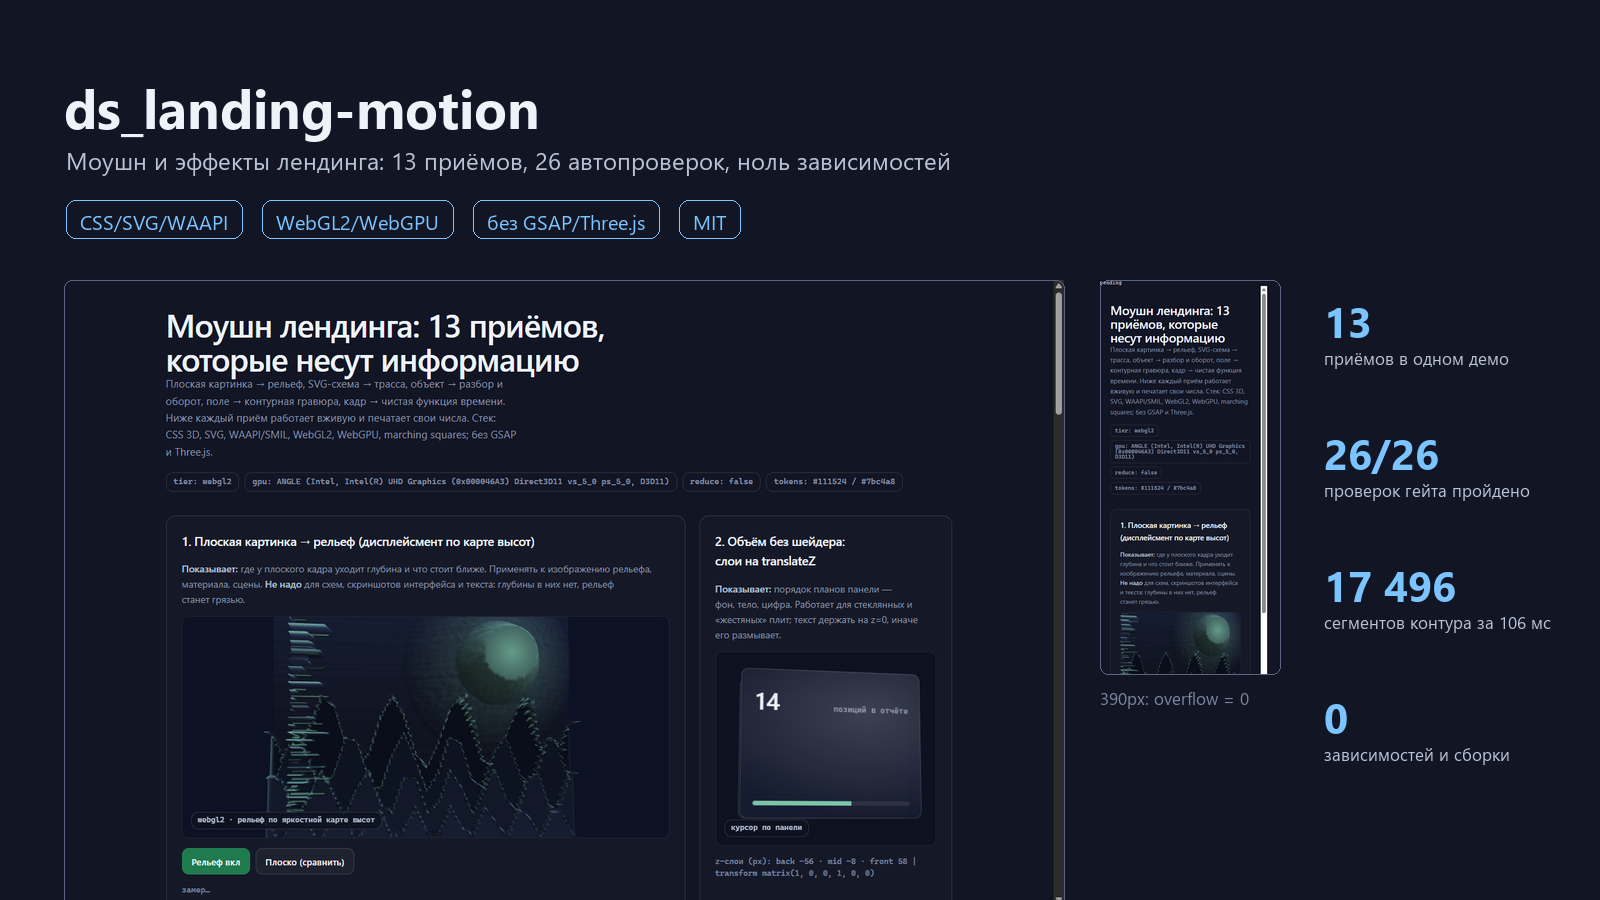
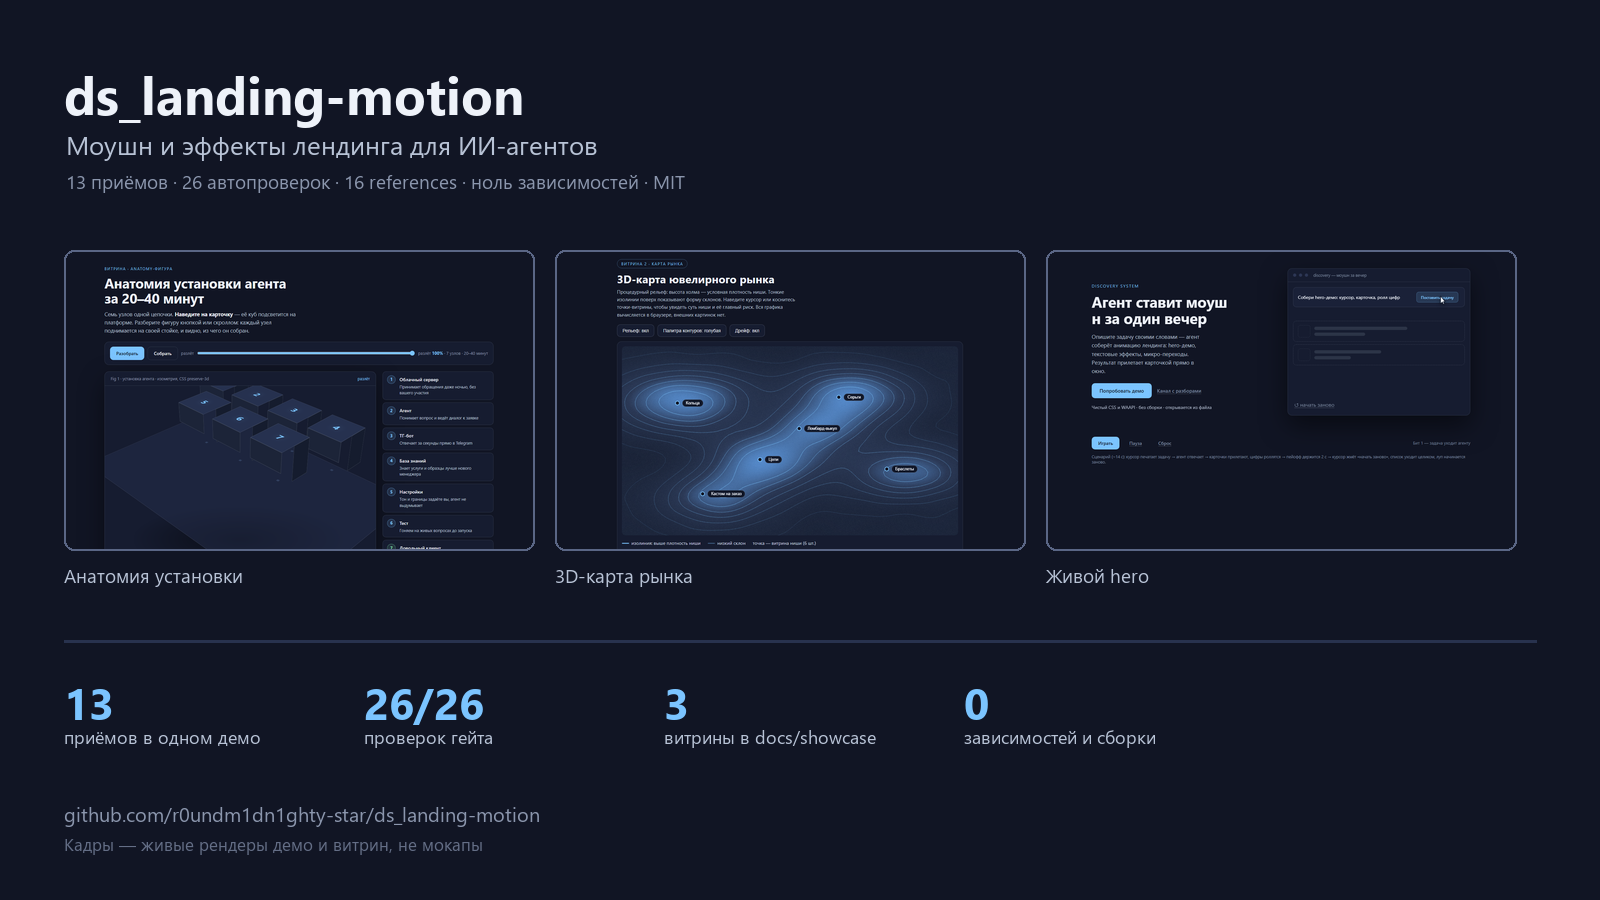
v1.4.2: новая обложка и живые кадры витрин в README; мобильный кадр на честном 390

Changed region(s): [[0.0312, 0.0933, 0.9688, 1.0], [0.8125, 0.7778, 0.8438, 0.84]]

diff --git a/docs/showcase/showcase-hero.html b/docs/showcase/showcase-hero.html
@@ -27,7 +27,8 @@
   .copy .kicker{font-size:13px; letter-spacing:.14em; text-transform:uppercase; color:var(--accent); margin-bottom:16px}
   .copy h1{font-size:clamp(30px,4.2vw,46px); line-height:1.08; font-weight:700; letter-spacing:-.01em}
   /* буквы прячутся ТОЛЬКО когда JS активен — без JS заголовок целый */
-  .js .copy h1 .ch{display:inline-block; opacity:0; transform:translateY(32px)}
+  .js .copy h1 .word{display:inline-block; white-space:nowrap}
+  .copy h1 .ch{display:inline-block; opacity:0; transform:translateY(32px)}
   .js .copy h1.settled .ch{opacity:1; transform:none}
   .copy p.lead{color:var(--muted); font-size:17px; line-height:1.55; margin:14px 0 20px; max-width:38ch}
   .cta-row{display:flex; gap:12px; flex-wrap:wrap; align-items:center}
@@ -184,11 +185,15 @@
   h1.setAttribute("aria-label", phrase);
   h1.textContent = "";
   phrase.split(" ").forEach(function(word, wi, arr){
+    var w = document.createElement("span");
+    w.className = "word";
+    w.setAttribute("aria-hidden","true");
     word.split("").forEach(function(chr){
       var s = document.createElement("span");
-      s.className = "ch"; s.setAttribute("aria-hidden","true"); s.textContent = chr;
-      h1.appendChild(s);
+      s.className = "ch"; s.textContent = chr;
+      w.appendChild(s);
     });
+    h1.appendChild(w);
     if (wi < arr.length - 1) h1.appendChild(document.createTextNode(" "));
   });
   function revealHeadline(){

diff --git a/README.md b/README.md
@@ -1,6 +1,6 @@
 # ds_landing-motion — моушн и эффекты на лендинге
 
-![Обложка: живые кадры прогона демо](assets/cover.png)
+![ds_landing-motion — моушн и эффекты лендинга для ИИ-агентов](assets/cover.png)
 
 > **Скилл про движение, которое несёт информацию, и вкус, который его выбирает** — Victor Zaitsev / Discovery System
 >
@@ -50,9 +50,9 @@
 
 | Витрина | Что показывает | Открыть |
 |---|---|---|
-| Анатомия установки | 7 станций цепочки «агент за вечер»: от облачного сервера до довольного клиента, изометрия собирается и разбирается | [`docs/showcase/showcase-anatomy.html`](docs/showcase/showcase-anatomy.html) |
-| 3D-карта ювелирки | 6 ниш рынка на рельефной 3D-карте: суть ниши и её главный риск по клику | [`docs/showcase/showcase-jewelry.html`](docs/showcase/showcase-jewelry.html) |
-| Живой hero | 4 бита сценария «моушн за вечер»: курсор ставит задачу → агент отвечает → карточка результата → пейофф | [`docs/showcase/showcase-hero.html`](docs/showcase/showcase-hero.html) |
+| ![Анатомия установки](docs/showcase/preview-anatomy.png) | **Анатомия установки:** 7 станций цепочки «агент за вечер» — от облачного сервера до довольного клиента. Изометрия на `preserve-3d` разбирается и собирается, наведение на карточку подсвечивает её куб | [`showcase-anatomy.html`](docs/showcase/showcase-anatomy.html) |
+| ![3D-карта рынка](docs/showcase/preview-jewelry.png) | **3D-карта рынка:** рельеф из шести ниш на canvas2d, hairline-изолинии marching squares. Клик по точке — суть ниши и её главный риск | [`showcase-jewelry.html`](docs/showcase/showcase-jewelry.html) |
+| ![Живой hero](docs/showcase/preview-hero.png) | **Живой hero:** 4 бита за ~14 секунд — курсор ставит задачу, агент отвечает, карточка прилетает с роллом цифр, пейофф держится, сброс возвращает в начало | [`showcase-hero.html`](docs/showcase/showcase-hero.html) |
 
 ## Быстрый старт
 
